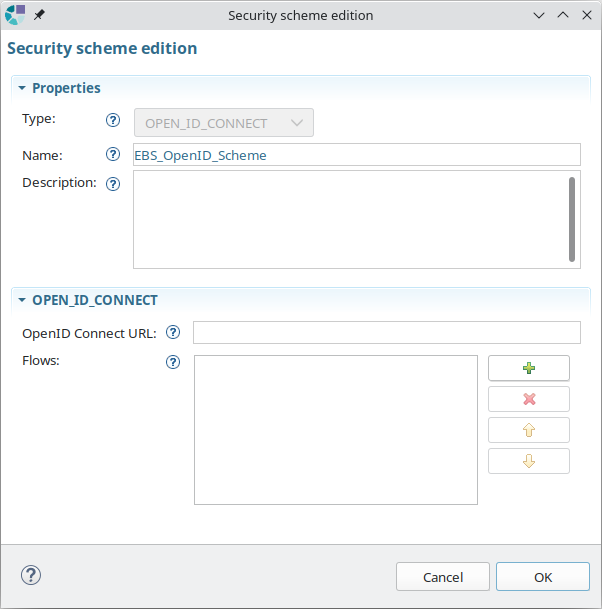
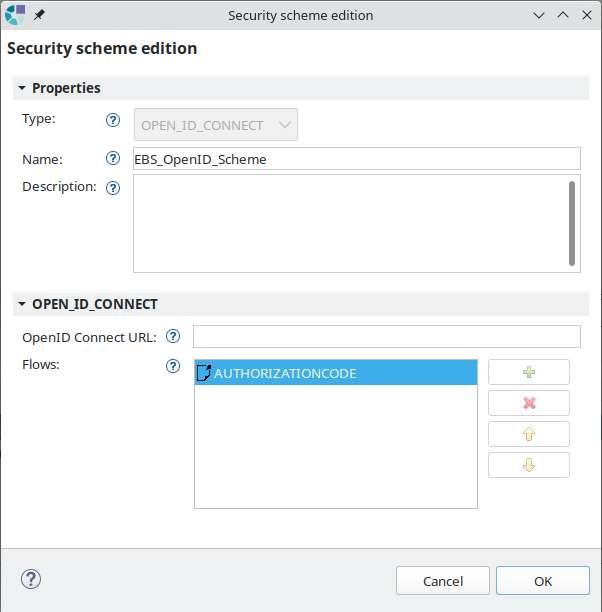
[SAFRAN-1150] SOA Designer - Open ID Connect stabilization

diff --git a/designs/soa/plugins/org.obeonetwork.dsl.soa.doc/doc/ISD - SOA Designer.html b/designs/soa/plugins/org.obeonetwork.dsl.soa.doc/doc/ISD - SOA Designer.html
@@ -1013,14 +1013,14 @@
 			<em>Security Scheme</em>.
 		</p>
 		<p>- 
-			<strong>Api Key:</strong>
+			<strong>Api Key :</strong>
 			<br/>
 			<img border="0" src="pics/securityschemes/Dialog_SecurityScheme_Edition_ApiKey.png"/>
 			<br/>Un 
 			<em>Security Scheme</em> de type Api key permet la définition d&#8217;une clé, ainsi que la spécification de sa localisation: dans le header, la requête, ou le cookie.
 		</p>
 		<p>- 
-			<strong>HTTP:</strong>
+			<strong>HTTP :</strong>
 			<br/>
 			<img border="0" src="pics/securityschemes/Dialog_SecurityScheme_Edition_HTTP.png"/>
 			<br/>Un 
@@ -1029,19 +1029,14 @@
 			<br/>Dans le cas d&#8217;un schéma d&#8217;authentification de type Bearer, le bearer-format définit la manière dont le token est stocké.
 		</p>
 		<p>- 
-			<strong>OAuth2:</strong>
+			<strong>OAuth2 :</strong>
 			<br/>
 			<img border="0" src="pics/securityschemes/Dialog_SecurityScheme_Edition_OAuth2.png"/>
 		</p>
-		<p>- 
-			<strong>Open ID:</strong>
-			<br/>
-			<img border="0" src="pics/securityschemes/Dialog_SecurityScheme_Edition_OpenID.png"/>
-		</p>
-		<p>Les 
-			<em>Security Scheme</em> de type OAuth2 et Open ID requièrent la spécification de 
-			<em>Flows</em>, ainsi que leurs 
-			<em>Scopes</em> respectifs:
+		<p>Un 
+			<em>Security Scheme</em> de type OAuth2 requière la spécification de 
+			<em>Flows</em>, ainsi que de leurs 
+			<em>Scopes</em> :
 			<br/>
 			<img border="0" src="pics/securityschemes/Dialog_Flow_Edition.png"/>
 		</p>
@@ -1049,6 +1044,18 @@
 			<em>Flows</em> représentent des scénarios que le client effectue afin d&#8217;obtenir l&#8217;accès à un token d&#8217;authentification. 
 			<br/>Chaque flow propose des 
 			<em>Scopes</em>. Ces scopes définissent un droit d&#8217;accès (restreint) a une fonctionnalité prodiguée par le serveur. 
+		</p>
+		<p>- 
+			<strong>Open ID Connect :</strong>
+			<br/>
+			<img border="0" src="pics/securityschemes/Dialog_SecurityScheme_Edition_OpenID.png"/>
+		</p>
+		<p>Open ID Connect est une couche d&#8217;identification construite sur le protocole OAuth2, avec quelques restrictions.
+			<br/>A la création d&#8217;un Security Scheme de type Open ID Connect, un Flow de type AUTHORIZATIONCODE est automatiquement créé. Ce Flow ne peut pas être supprimé, et d&#8217;autres flows ne peuvent pas être créés.
+			<br/>Le Flow AUTHORIZATIONCODE peut être édité dans le seul but d&#8217;y ajouter des scopes. Les champs URL sont inactivés :
+		</p>
+		<p>
+			<img border="0" src="pics/securityschemes/Dialog_Flow_Edition_OpenID.png"/>
 		</p>
 		<p>L'édition des valeurs saisies est modifiable par la suite en double-cliquant sur un 
 			<em>SecurityScheme</em> dans cette même vue de propriétés, ou bien dans la vue de propriétés d&#8217;un 
